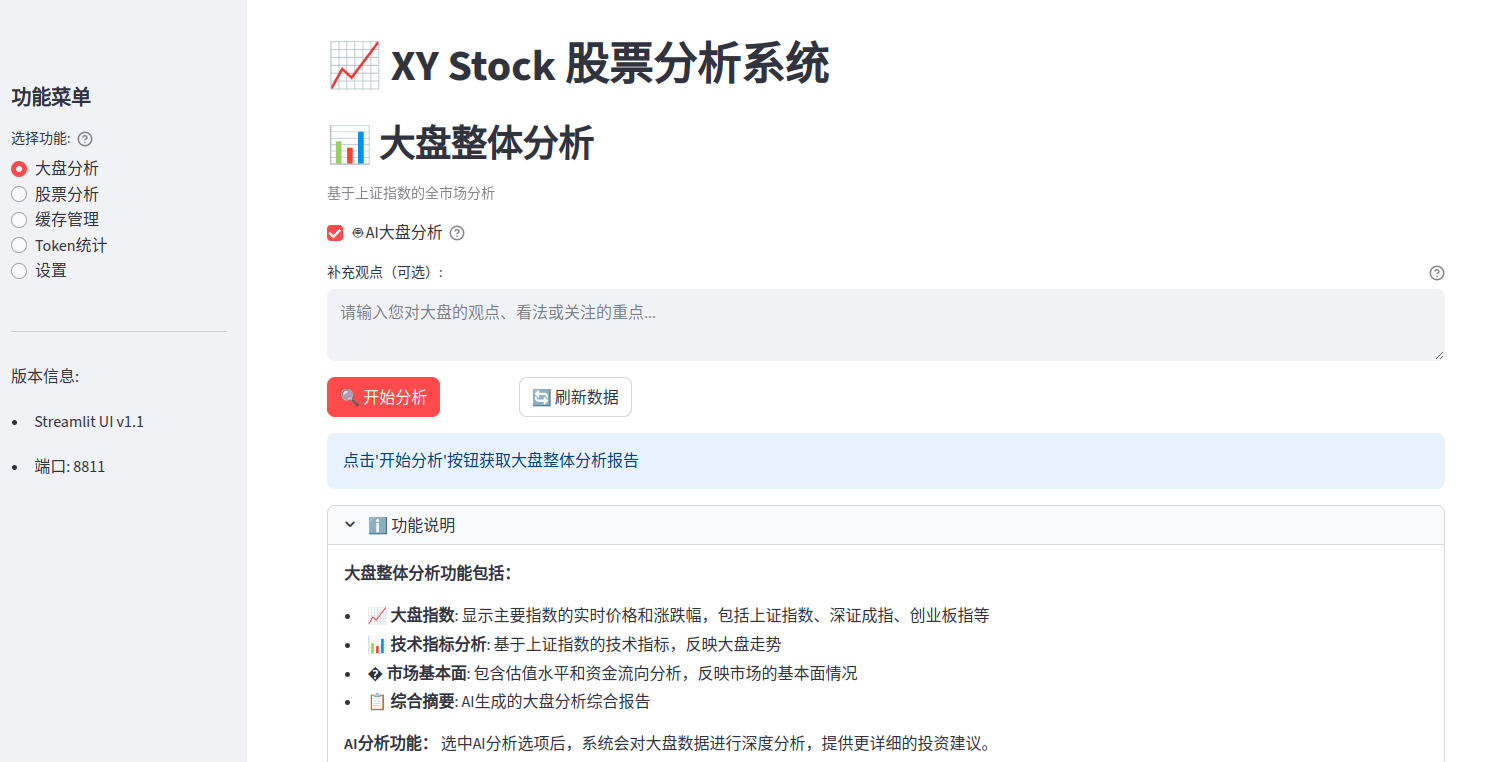
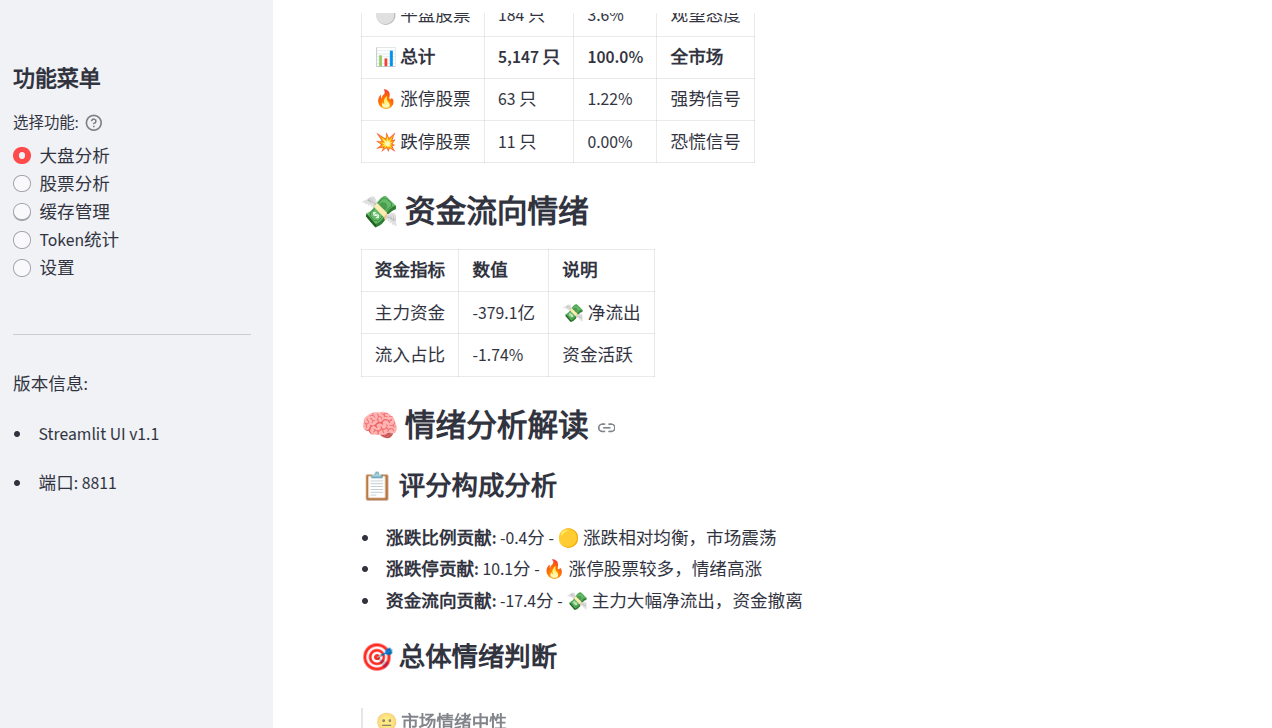
feat: 更新CHANGELOG和README，示例图

diff --git a/README.md b/README.md
@@ -2,21 +2,34 @@
 
 一个极简的股票/基金分析工具，支持实时行情获取和大模型分析。
 
+## 版本更新 - v1.2.0 (2025-09-30)
+
+**🎉 重大更新！** 新版本增加了以下主要功能：
+
+- **市场新闻数据集成** - 实时新闻获取与情绪分析
+- **股息分红与ETF持仓** - 更全面的投资数据支持
+- **性能优化与稳定性提升** - 更好的用户体验
+- **全新策略回测模块** - 支持策略分析和可视化展示
+
+本次更新包含 **30+ 次提交**，新增 **5000+ 行代码**，欢迎大家体验新版本！
+
 ## 主要功能
 
-工具提供了两个主要功能模块：大盘分析和个股分析。
+工具提供了三个主要功能模块：大盘分析、个股分析和策略回测。
 
 ![](./res/img_01.png)
 
 在预测个股时，需要以大趋势为前提，尤其是在现阶段，大盘有明显的趋势。因此，我将大盘预测这一部分单独作了界面。另一个启发是，对于难以预测的长期趋势和短期事件，可以通过经济数据和新闻事件实时捕捉，可解决一部分问题。
 
-在大盘分析部分，收集的数据包括：大盘指数（如上证、深成、创业板、科创板等）、技术指标（如移动平均线、MACD、RSI 等）、市场基本面（包括估值、资金流向、融资融券等）。
+在大盘分析部分，收集的数据包括：大盘指数（如上证、深成、创业板、科创板等）、技术指标（如移动平均线、MACD、RSI 等）、市场基本面（包括估值、资金流向、融资融券等）、市场新闻和情绪分析。支持导出多种格式的分析报告（Markdown、PDF 等）。
 
 ![](./res/img_02_1.png)
 
-在个股分析部分，收集的数据包括：股票基本信息、行情趋势（含风险分析）、新闻资讯、筹码分析。
+在个股分析部分，收集的数据包括：股票基本信息、行情趋势（含风险分析）、新闻资讯、筹码分析、股息分红信息、ETF持仓数据等。同样支持多格式报告导出。
 
 ![](./res/img_02_2.png)
+
+新增的策略回测模块提供了完整的回测功能，包括：策略分析、交易记录展示、可视化工具，帮助用户验证投资策略的有效性。
 
 在进行最终的 AI 分析时，还考虑了用户相关的因素：支持用户输入自己的观点和关注重点；输入持仓情况，设置用户画像，以及用户常犯的错误。这些用户相关的特征，在一些券商 APP 中，可能是通过数据总结出来的。在没有数据的情况下，让用户自己输入，只要是客观全面，其实效果也差不多，可能还更好。再退一步，可以把券商 APP 中的用户画像直接贴过来。
 
@@ -125,11 +138,14 @@ python -m streamlit run ui/app.py --server.address=0.0.0.0 --server.port=8811
 - **推理模型**：建议使用功能更强大的模型，如 GPT-4o、o3 或通义千问 Max，以获取更深入的股票分析。
 
 ## 目录结构
-- provider/ 数据获取脚本
+- backtesting/ 回测模块及可视化工具
 - llm/  大模型相关及prompt
-- ui/   预留界面
-- notebooks/ 实验用notebook
-- data/ 过程数据
+- market/ 市场数据获取和分析
+- stock/ 个股数据获取和分析
+- ui/   用户界面
+- utils/ 工具函数和数据格式化
+- examples/ 示例和演示
+- data/ 缓存和数据存储
 
 ## 使用场景
 

diff --git a/CHANGELOG.md b/CHANGELOG.md
@@ -2,6 +2,43 @@
 
 本文档记录了项目的所有重要变更。
 
+## [1.2.0] - 2025-09-30
+
+### Added
+
+- 添加市场报告导出界面，支持多种格式（如 Markdown、PDF 等）
+- 新增市场新闻数据获取与展示功能
+- 增加回测模块及可视化工具，支持策略分析和交易记录展示
+- 添加股票回测示例，包含多种策略及可视化分析
+- 增强字体支持，自动安装中文字体及字体显示测试
+- 添加风险指标计算与格式化、市场情绪分析、股息分红、ETF持仓数据获取功能
+- 增强市场数据缓存管理，支持指数相关数据的缓存与更新
+- 添加自定义JSON编码器以适配 numpy、pandas 类型
+- 新增市场K线数据管理器和多指数估值、动态映射功能
+
+### Changed
+
+- 优化市场分析报告生成逻辑，统一数据收集和格式化
+- 重构技术指标/风险指标格式化及获取逻辑，采用市场工具类
+- 优化并重构市场报告及股票分析页面，支持多种导出格式
+- 优化数据格式化、缓存加载与保存、综合分析缓存逻辑
+- 优化市场情绪数据获取及综合分析
+- 优化ETF、财务指标等数据展示与格式化
+- 调整目录结构
+- 细化M2描述
+
+### Fixed
+
+- 修复缓存数据丢失及异常处理逻辑（如 fetch 失败不存 cache）
+- 优化买卖信号处理，提升回测引擎稳定性
+- 跳过无效字段，优化生成报告时的异常容错
+- 进一步提升代码可读性和维护性
+
+### Removed
+
+- 清理多余代码和无用 debug 信息
+
+
 ## [1.1.0] - 2025-09-05
 
 ### Added
@@ -27,6 +64,7 @@
 ### Removed
 
 - 清理冗余代码和无用注释
+
 
 ## [1.0.0] - 2025-09-01
 
